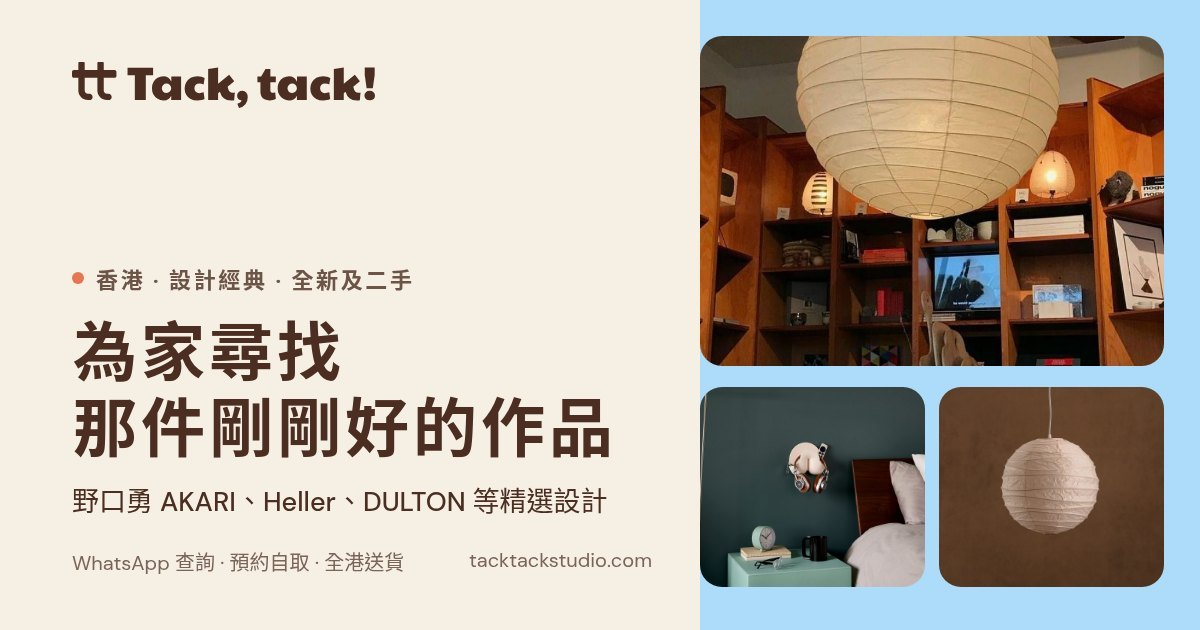
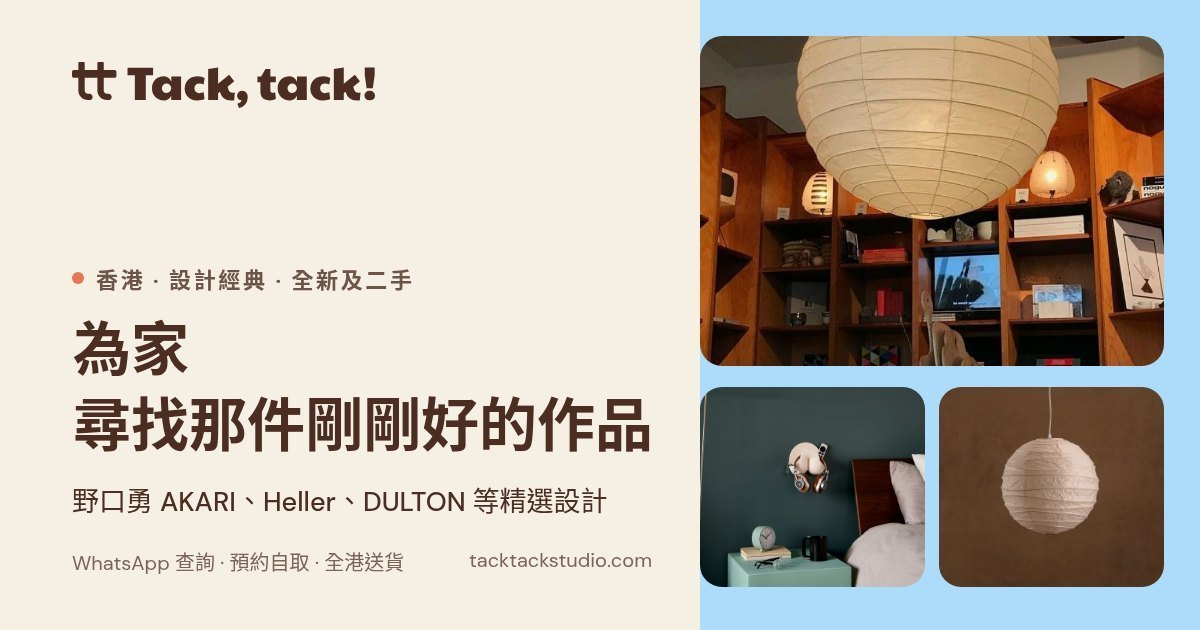
Break the ZH homepage slogan after 為家.
The locked two-line layout is 為家 / 尋找那件剛剛好的作品 on the hero and the home share card.

Changed region(s): [[0.0617, 0.6333, 0.555, 0.7238], [0.0617, 0.5127, 0.3083, 0.6032]]

diff --git a/zh/index.html b/zh/index.html
@@ -76,7 +76,7 @@
     <div class="wrap hero-grid">
       <div>
         <p class="eyebrow"><span class="l-zh" lang="zh-Hant-HK">設計好物轉讓 · 香港</span></p>
-        <h1><span class="l-zh hero-slogan" lang="zh-Hant-HK">為家尋找<br>那件剛剛好的作品</span> <span class="l-zh hero-h1-note" lang="zh-Hant-HK">野口勇 AKARI 與 DULTON 雙面鐘，香港現貨。</span></h1>
+        <h1><span class="l-zh hero-slogan" lang="zh-Hant-HK">為家<br>尋找那件剛剛好的作品</span> <span class="l-zh hero-h1-note" lang="zh-Hant-HK">野口勇 AKARI 與 DULTON 雙面鐘，香港現貨。</span></h1>
         <p class="hero-lede"><span class="l-zh" lang="zh-Hant-HK">精選全新及二手設計師燈飾、家具及家品，香港現貨：由野口勇的 AKARI 和紙燈，到 Heller 的波浪 Swell。灰色及綠色 DULTON 雙面鐘都是香港現貨。WhatsApp 查詢，FPS、PayMe、現金或 PayPal（海外買家）付款，Showroom 預約自取或全港送貨。</span></p>
         <div class="hero-ctas"><a class="btn" href="/zh/shop/"><span class="l-zh" lang="zh-Hant-HK">選購全部</span></a><a class="btn btn-ghost" href="/zh/how-to-buy/"><span class="l-zh" lang="zh-Hant-HK">購買流程</span></a></div>
         <ul class="hero-trust"><li><span class="l-zh" lang="zh-Hant-HK">正品，全新及二手</span></li><li><span class="l-zh" lang="zh-Hant-HK">價錢清楚，如實品相評級</span></li><li><span class="l-zh" lang="zh-Hant-HK">Showroom 預約自取或全港送貨</span></li><li><span class="l-zh" lang="zh-Hant-HK">WhatsApp 回覆，附實物相片</span></li></ul>
